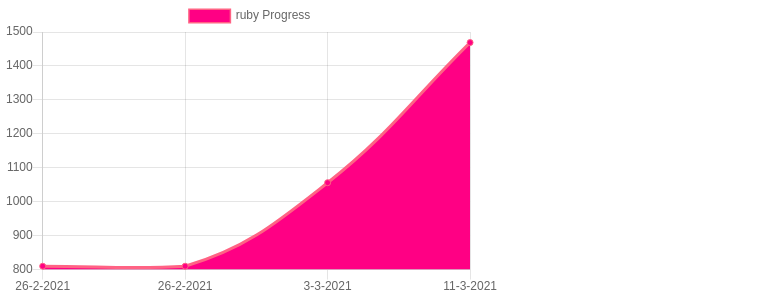
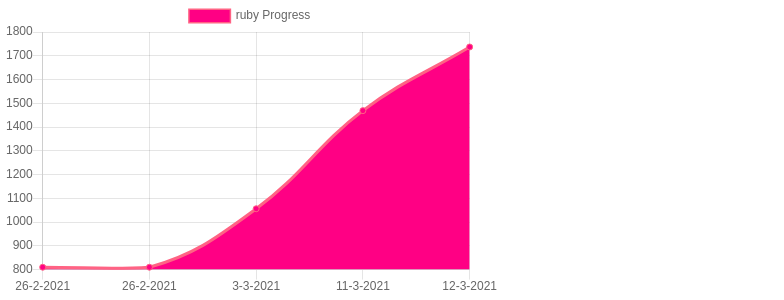
268: ruby controllers, presenters, and migrations

Changed region(s): [[0.0, 0.12, 0.6122, 0.9], [0.1531, 0.93, 0.4898, 0.99], [0.551, 0.93, 0.5816, 0.96]]

diff --git a/total.html b/total.html
@@ -9,7 +9,7 @@
         <script src="https://cdn.jsdelivr.net/npm/chart.js@2.8.0"></script>
         <script>
           var ctx = document.getElementById("total").getContext("2d");
-          const goLabelsDates = ["2021-02-27T01:37:43.112Z","2021-02-27T01:38:01.628Z","2021-03-01T13:41:18.753Z","2021-03-01T14:53:41.991Z","2021-03-01T15:08:00.851Z","2021-03-01T15:09:10.635Z","2021-03-01T15:22:55.385Z","2021-03-03T15:31:41.151Z","2021-03-05T14:02:13.446Z","2021-03-10T14:50:13.297Z","2021-03-11T01:54:03.424Z","2021-03-11T15:32:47.647Z","2021-03-11T16:01:51.191Z","2021-03-12T00:36:04.646Z",];
+          const goLabelsDates = ["2021-02-27T01:37:43.112Z","2021-02-27T01:38:01.628Z","2021-03-01T13:41:18.753Z","2021-03-01T14:53:41.991Z","2021-03-01T15:08:00.851Z","2021-03-01T15:09:10.635Z","2021-03-01T15:22:55.385Z","2021-03-03T15:31:41.151Z","2021-03-05T14:02:13.446Z","2021-03-10T14:50:13.297Z","2021-03-11T01:54:03.424Z","2021-03-11T15:32:47.647Z","2021-03-11T16:01:51.191Z","2021-03-12T00:36:04.646Z","2021-03-13T00:14:58.179Z",];
           var chart = new Chart(ctx, {
             type: 'line',
             data: {
@@ -18,7 +18,7 @@
                 label: 'total Progress',
                 backgroundColor: 'rgb(255, 0, 132)',
                 borderColor: 'rgb(255, 99, 132)',
-                data: [7975,7975,8307,8526,8526,8527,8573,9171,9358,9751,9908,10232,10231,10643,]
+                data: [7975,7975,8307,8526,8526,8527,8573,9171,9358,9751,9908,10232,10231,10643,10911,]
               }]
             },
           });

diff --git a/ruby.html b/ruby.html
@@ -9,7 +9,7 @@
         <script src="https://cdn.jsdelivr.net/npm/chart.js@2.8.0"></script>
         <script>
           var ctx = document.getElementById("ruby").getContext("2d");
-          const goLabelsDates = ["2021-02-27T01:37:43.111Z","2021-02-27T01:38:01.627Z","2021-03-03T15:31:41.151Z","2021-03-12T00:36:04.646Z",];
+          const goLabelsDates = ["2021-02-27T01:37:43.111Z","2021-02-27T01:38:01.627Z","2021-03-03T15:31:41.151Z","2021-03-12T00:36:04.646Z","2021-03-13T00:14:58.178Z",];
           var chart = new Chart(ctx, {
             type: 'line',
             data: {
@@ -18,7 +18,7 @@
                 label: 'ruby Progress',
                 backgroundColor: 'rgb(255, 0, 132)',
                 borderColor: 'rgb(255, 99, 132)',
-                data: [810,810,1056,1469,]
+                data: [810,810,1056,1469,1737,]
               }]
             },
           });

diff --git a/Readme.md b/Readme.md
@@ -3,18 +3,18 @@
 |----------|-------|--------|--------|--------|--------|
 |go|2201|110|110|![go](https://raw.githubusercontent.com/kapit4n/l-10000-dev/master/go.png)|structs, loops|
 |js|1979|99|99|![js](https://raw.githubusercontent.com/kapit4n/l-10000-dev/master/js.png)|react, , angular, |
+|ruby|1737|87|87|![ruby](https://raw.githubusercontent.com/kapit4n/l-10000-dev/master/ruby.png)||
 |python|1501|75|75|![python](https://raw.githubusercontent.com/kapit4n/l-10000-dev/master/python.png)|collections, |
-|ruby|1469|73|73|![ruby](https://raw.githubusercontent.com/kapit4n/l-10000-dev/master/ruby.png)||
 |scala|1368|68|68|![scala](https://raw.githubusercontent.com/kapit4n/l-10000-dev/master/scala.png)|play framework, akka, collections|
 |java|1240|62|62|![java](https://raw.githubusercontent.com/kapit4n/l-10000-dev/master/java.png)|reflexion, strings, generics, documentation|
 |ts|829|41|41|![ts](https://raw.githubusercontent.com/kapit4n/l-10000-dev/master/ts.png)|angular|
 |words|47|2|2|![words](https://raw.githubusercontent.com/kapit4n/l-10000-dev/master/words.png)||
 |sql|9|0|0|![sql](https://raw.githubusercontent.com/kapit4n/l-10000-dev/master/sql.png)||
 |dotnet|0|0|0|![dotnet](https://raw.githubusercontent.com/kapit4n/l-10000-dev/master/dotnet.png)||
-|TOTAL|10643|1064.300%|
+|TOTAL|10911|1091.100%|
 10/02(0)
 
-10/03(10643)
+10/03(10911)
 
 
 # run it
@@ -37,4 +37,4 @@ node ./count.js
 * Angular, React, Vue
 * Spring, Play
 * Scala, Java
-, 2021-03-12T00:36:04.646Z
+, 2021-03-13T00:14:58.179Z
